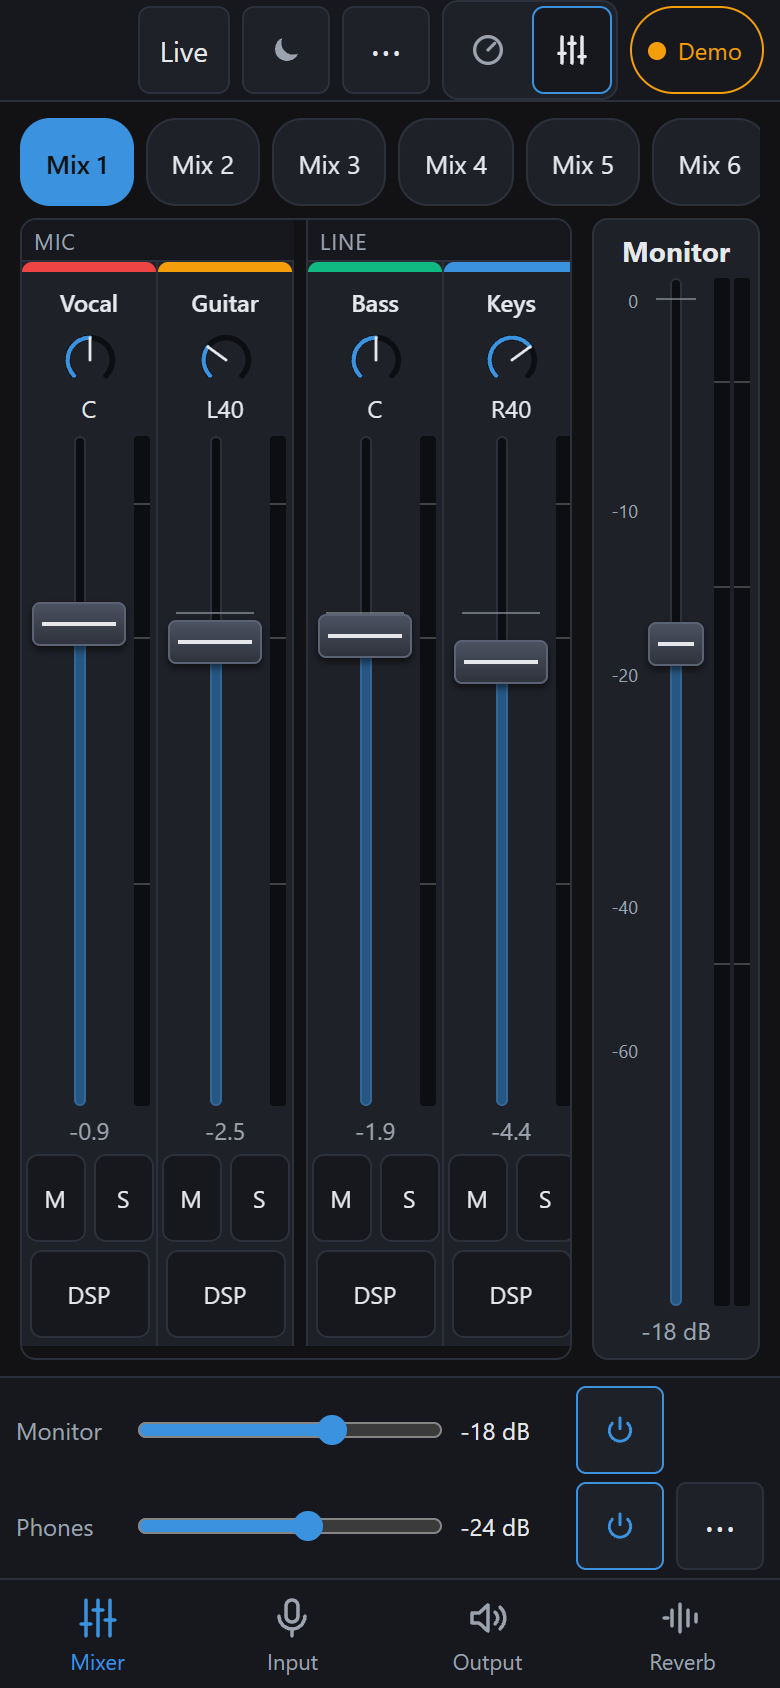
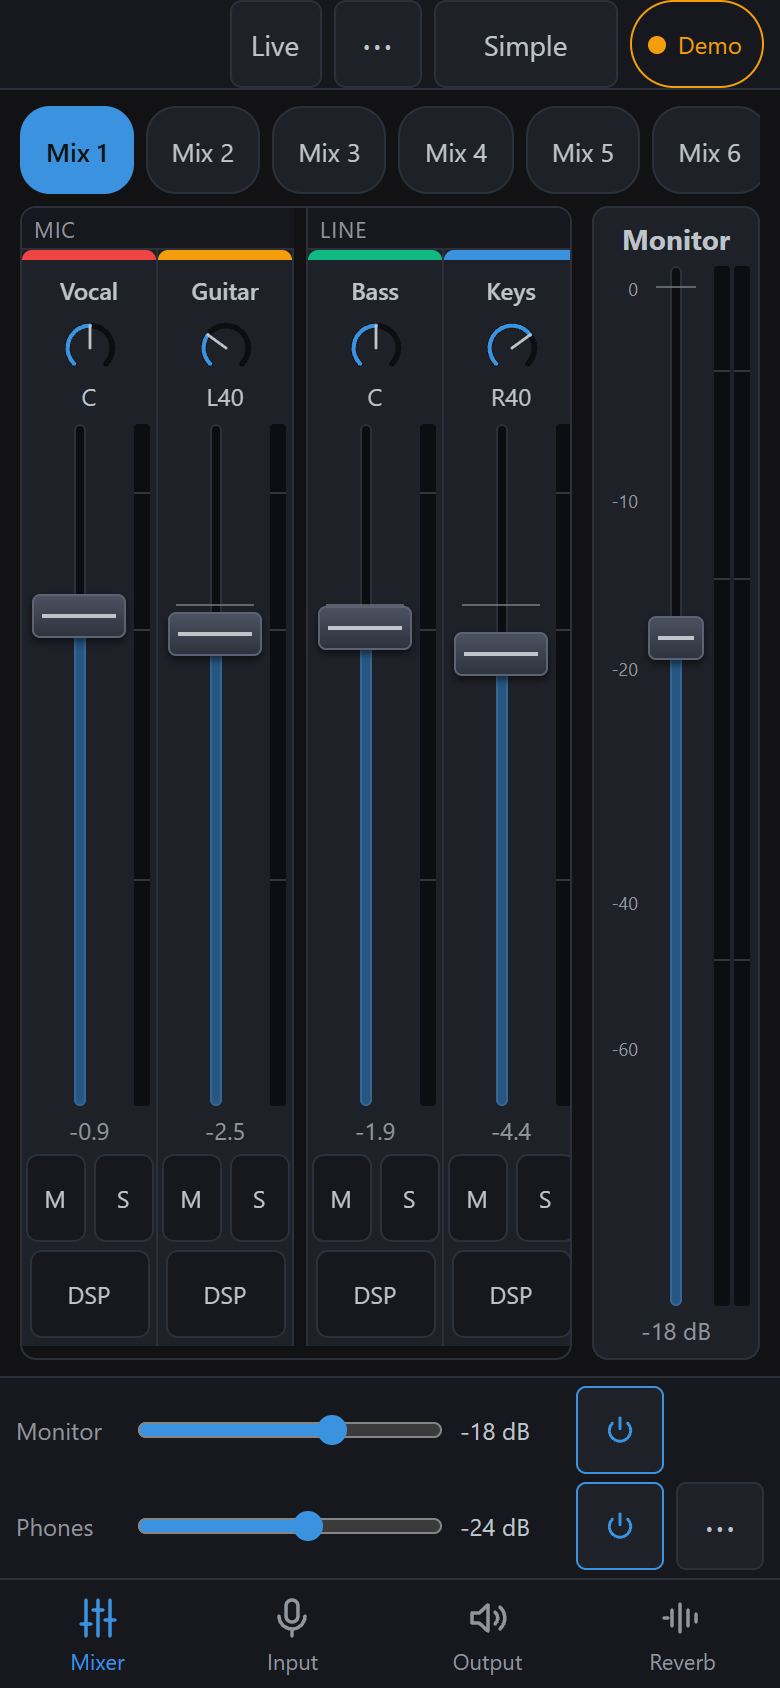
docs: retake the UI screenshots for light grey text and the single view button
Same demo state and sizes as before (1400 x 820 desktop, 390 x 844 at 2x for
phones). Two phone alt texts now name the Advanced / Simple button.

diff --git a/README.md b/README.md
@@ -11,12 +11,12 @@ High-performance **Rust** web controller and bidirectional **OSC** bridge for th
 ![Output view: Monitor and Phones levels with meters, mono, A/B and talkback, output trims per pair, and the output EQ with the Loudness preset applied: curve on the left, bands on the right; the header shows the preset as modified](docs/images/webui-output.png)
 
 <p>
-<img src="docs/images/simple-phone.png" width="195" alt="Simple view on a phone: Monitor at −18 dB and Phones at −24 dB as two large knobs with meters and on/off buttons, the Preset row showing Live, and the Keep screen on switch">
+<img src="docs/images/simple-phone.png" width="195" alt="Simple view on a phone: Monitor at −18 dB and Phones at −24 dB as two large knobs with meters and on/off buttons, the Preset row showing Live, the Keep screen on switch, and the Advanced button in the header">
 <img src="docs/images/simple-phone-off.png" width="195" alt="Simple view with Monitor off: the knob reads Off, returns to −18 dB, with a grey needle at the level On will fade back to">
 <img src="docs/images/simple-phone-presets.png" width="195" alt="Simple view preset sheet: the presets chosen for the Simple view, each with its own Load button, the current one marked">
 </p>
 <p>
-<img src="docs/images/advanced-phone.png" width="195" alt="Advanced view on a phone: the mixer with Mic and Line groups and the Monitor fader, Monitor and Phones rows with on/off buttons and a ⋯ button for DIM, MONO, A/B and Talkback, and the bottom tab bar with Mixer, Input, Output and Reverb">
+<img src="docs/images/advanced-phone.png" width="195" alt="Advanced view on a phone: the Simple button in the header, the mixer with Mic and Line groups and the Monitor fader, Monitor and Phones rows with on/off buttons and a ⋯ button for DIM, MONO, A/B and Talkback, and the bottom tab bar with Mixer, Input, Output and Reverb">
 </p>
 
 <sub>Screenshots taken in demo mode (no MOTU connected, so the meters are empty), at 1400 × 820 for the desktop views and 390 × 844 for the phone views.</sub>
